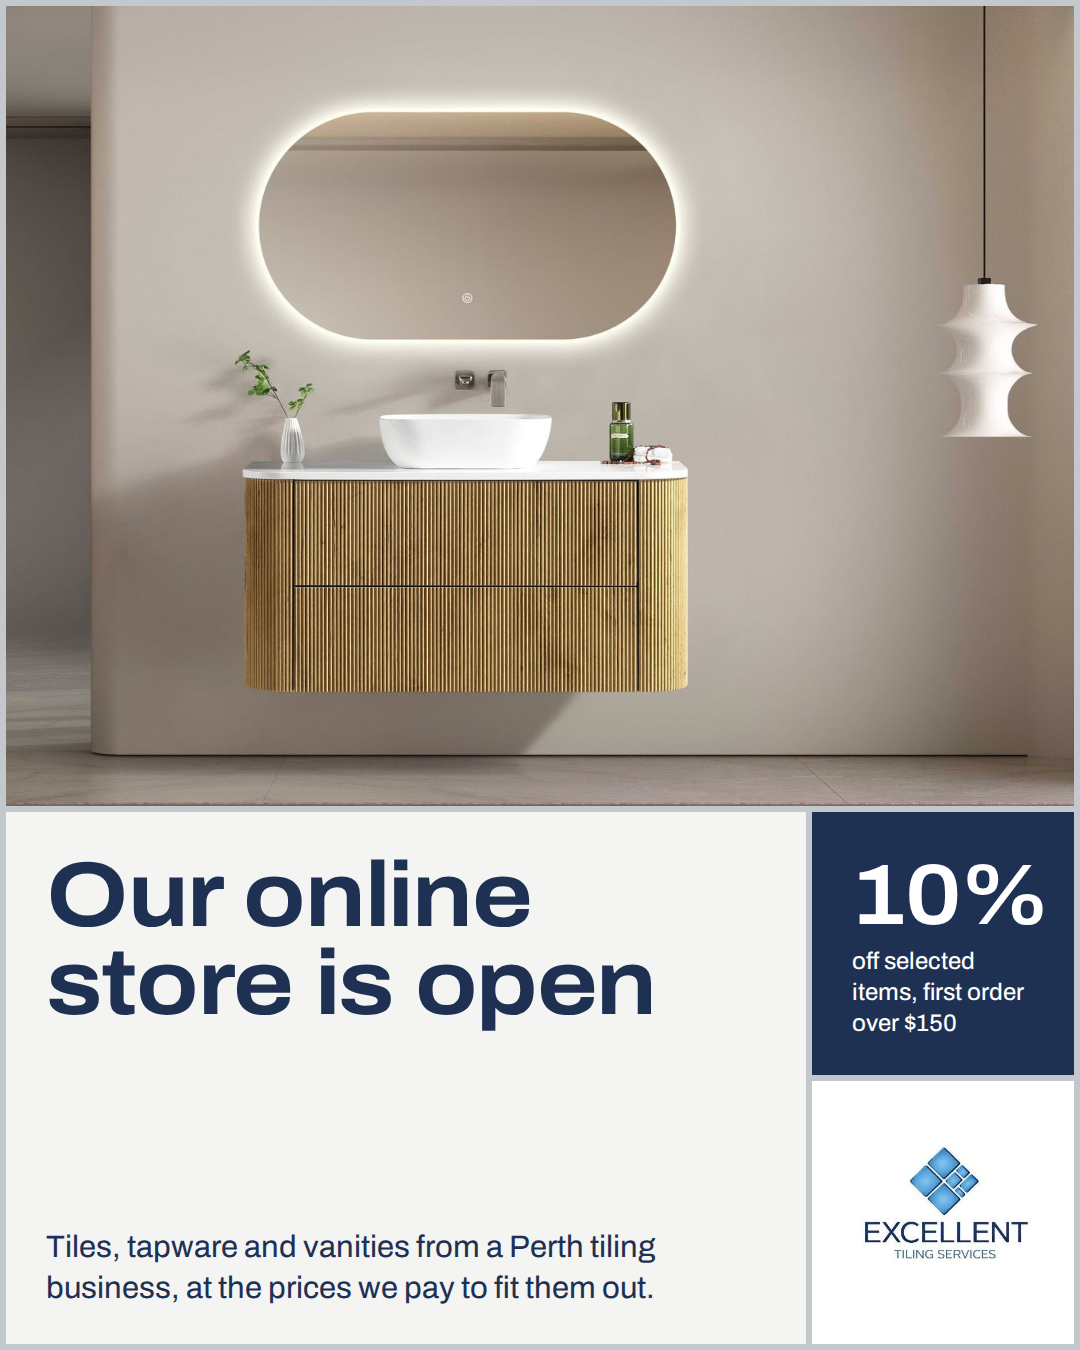
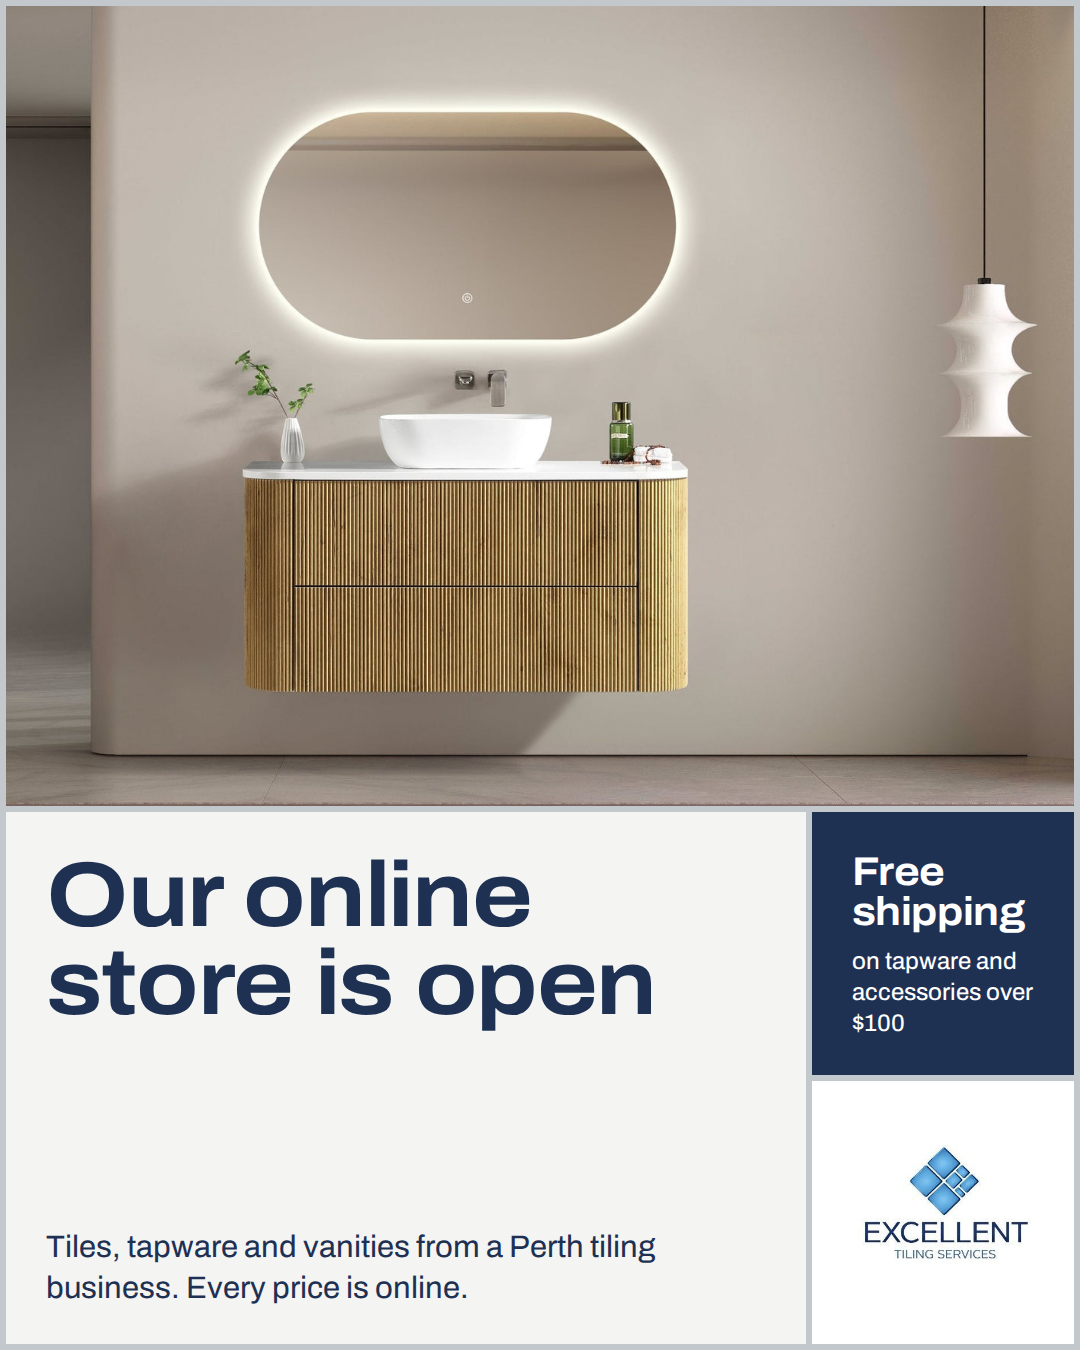
Cancel YAMEN10: replace code graphics with delivery, pickup and free-shipping posts
The discount was deleted from Shopify before launch to protect margins.

Claude-Session: https://claude.ai/code/session_01Y6UKLN7V2VAdSWW4mDpHRp

Changed region(s): [[0.7944, 0.6222, 0.9778, 0.7778], [0.1528, 0.9333, 0.6111, 0.9644]]

diff --git a/marketing/finish-it-right/source/build.py b/marketing/finish-it-right/source/build.py
@@ -33,8 +33,8 @@ URL='excellenttilingservice.com.au'
 posts={
 'A2-1-cover':
  img('brittany2.jpg','1/5','1/4')+
- f'<div class="t" {a("1/4","4/6")}><h1>Our online store is open</h1><p class="bot">Tiles, tapware and vanities from a Perth tiling business, at the prices we pay to fit them out.</p></div>'+
- f'<div class="t navy" {a("4/5","4/5")}><h2 style="font-size:86px">10%</h2><p class="small bot">off selected items, first order over $150</p></div>'+
+ f'<div class="t" {a("1/4","4/6")}><h1>Our online store is open</h1><p class="bot">Tiles, tapware and vanities from a Perth tiling business. Every price is online.</p></div>'+
+ f'<div class="t navy" {a("4/5","4/5")}><h2 style="font-size:40px">Free<br>shipping</h2><p class="small bot">on tapware and accessories over $100</p></div>'+
  LOGO('4/5','5/6'),
 'A2-2-flova':
  img('flova.png','1/5','1/4','fit')+
@@ -52,21 +52,12 @@ posts={
  img('moon-room2.jpg','3/5','3/5','','Time Stone Moon, laid','dark')+
  f'<div class="t" {a("1/4","5/6")}><h2 style="font-size:52px">Porcelain tiles from $37.40/m²</h2><p class="small" style="margin-top:14px">Perth delivery or free pickup. Sold by the full box.</p></div>'+
  f'<div class="t blue" {a("4/5","5/6")}></div>',
-'A2-5-code':
- f'<div class="t deep" {a("1/5","1/4")}><p>Use code</p><div class="code" style="margin-top:30px">YAMEN10</div><p class="bot" style="font-size:40px">10% off selected items, first order over $150</p></div>'+
- f'<div class="t" {a("1/4","4/6")}><h2>Ends Sunday 8&nbsp;November</h2><p class="small" style="margin-top:18px">Excludes vanities, basins, mirrors and baths.</p><p class="bot">{URL}</p></div>'+
- f'<div class="t blue" {a("4/5","4/5")}></div>'+LOGO('4/5','5/6'),
 'C3-showroom':
  f'<div class="t navy" {a("1/5","1/4")}><h1 style="font-size:132px">Work all day?<br>So do we.</h1><p class="bot" style="font-size:38px">Our Maddington showroom opens in the evening, by appointment.</p></div>'+
  f'<div class="t" {a("1/3","4/6")}><table><tr><td>Mon to Sat</td><td>4:30–9 pm</td></tr><tr><td>Sunday</td><td>Closed</td></tr></table><p class="small bot">Bring your plans and measurements. We\'ll help you work out quantities.</p></div>'+
  f'<div class="t blue" {a("3/5","4/5")}><h2 style="font-size:52px">Book a time online</h2></div>'+
  f'<div class="t" {a("3/4","5/6")}><p class="small">17A Olga Road, Maddington<br><br>0450 960 543</p></div>'+LOGO('4/5','5/6'),
-'D3-last-call':
- img('hail-room.jpg','1/5','1/3')+
- f'<div class="t deep" {a("1/5","3/5")}><p>Last call</p><div class="code" style="margin-top:24px">YAMEN10</div><h2 class="bot" style="font-size:58px">Ends Sunday 8 November</h2></div>'+
- f'<div class="t" {a("1/4","5/6")}><p>10% off selected items on your first order over $150.</p><p class="small" style="margin-top:12px">Excludes vanities, basins, mirrors and baths. {URL}</p></div>'+LOGO('4/5','5/6'),
 }
-
 posts.update({
 'B2-refresh':
  f'<div class="t navy" {a("1/5","1/3")}><h1 style="font-size:104px">Bathroom refresh for $480</h1><p class="bot">Four swaps, one matching chrome finish, delivered free anywhere in Australia.</p></div>'+
@@ -74,7 +65,7 @@ posts.update({
  img('handshower.jpg','3/4','3/5','fit','Hand shower $151','dark')+
  img('towelrail.png','4/5','3/4','fit','Towel rail $94','dark')+
  img('paper.png','4/5','4/5','fit','Roll holder $46','dark')+
- f'<div class="t" {a("1/4","5/6")}><p>All MELA FLOVA. Add code YAMEN10 for another 10% off orders over $150.</p></div>'+LOGO('4/5','5/6'),
+ f'<div class="t" {a("1/4","5/6")}><p>All MELA FLOVA. Also available in matt black and brushed nickel.</p></div>'+LOGO('4/5','5/6'),
 'B3-prices':
  f'<div class="t" {a("1/5","1/3")}><h1 style="font-size:112px">Every price is on the website</h1></div>'+
  f'<div class="t navy" {a("1/3","3/5")}><h2>No “call for price”</h2><p class="bot">Tiles, tapware, vanities and tools, all priced online, all buyable tonight.</p></div>'+
@@ -109,10 +100,6 @@ posts.update({
  img('flova.png','1/3','1/4','fit')+img('flova-black.png','3/5','1/4','fit')+
  f'<div class="t navy" {a("1/5","4/6")}><h1 style="font-size:116px">Chrome or matt black?</h1><p class="bot" style="font-size:38px">Same mixer, $189 or $217. Vote below.</p></div>'+
  f'<div class="t" {a("1/5","6/8")}><p style="font-size:34px;color:#8a919a">Poll sticker goes here</p></div>',
-'S-countdown':
- f'<div class="t deep" {a("1/5","1/5")}><p style="font-size:40px">Last day tomorrow</p><div class="code" style="margin-top:40px">YAMEN10</div><p class="bot" style="font-size:44px">10% off selected items, first order over $150</p></div>'+
- f'<div class="t" {a("1/5","5/7")}><p style="font-size:34px;color:#8a919a">Countdown sticker goes here</p><p class="small bot">Excludes vanities, basins, mirrors and baths.</p></div>'+
- f'<div class="t blue" {a("1/4","7/8")}><h2 style="font-size:52px">Tap the link to shop</h2></div>'+LOGO('4/5','7/8'),
 'S-showroom':
  f'<div class="t navy" {a("1/5","1/4")}><h1 style="font-size:132px">Open tonight, 4:30 to 9</h1></div>'+
  img('brittany2.jpg','1/5','4/6')+
@@ -123,6 +110,22 @@ posts.update({
  f'<div class="t" {a("1/3","4/6")}><div class="big" style="color:var(--blue)">15%</div><p class="bot">off tiles</p></div>'+
  f'<div class="t" {a("3/5","4/6")}><div class="big" style="font-size:120px;color:var(--blue)">5–25%</div><p class="bot">off everything else</p></div>'+
  f'<div class="t blue" {a("1/4","6/8")}><h2 style="font-size:60px">Free account. Apply on the website.</h2></div>'+LOGO('4/5','6/8'),
+})
+
+posts.update({
+'A2-5-delivery':
+ f'<div class="t deep" {a("1/5","1/3")}><h1 style="font-size:112px">Three ways to get it home</h1></div>'+
+ f'<div class="t" {a("1/3","3/5")}><h2 style="font-size:58px">Free shipping</h2><p class="bot">Tapware and accessories over $100, anywhere in Australia.</p></div>'+
+ f'<div class="t" {a("3/5","3/5")}><h2 style="font-size:58px">Perth delivery</h2><p class="bot">Tiles, vanities and baths, priced at checkout.</p></div>'+
+ f'<div class="t blue" {a("1/4","5/6")}><h2 style="font-size:54px">Free pickup in Maddington</h2></div>'+LOGO('4/5','5/6'),
+'D3-pickup':
+ img('hail-room.jpg','1/5','1/3')+
+ f'<div class="t deep" {a("1/5","3/5")}><p>Order online</p><h1 style="font-size:150px;margin-top:24px">Pick up free</h1><h2 class="bot" style="font-size:58px">17A Olga Road, Maddington</h2></div>'+
+ f'<div class="t" {a("1/4","5/6")}><p>We message you when it\'s ready. Book a pickup time, Monday to Saturday, 4:30 to 9 pm.</p></div>'+LOGO('4/5','5/6'),
+'S-shipping':
+ f'<div class="t deep" {a("1/5","1/5")}><p style="font-size:40px">Tapware and accessories</p><h1 style="font-size:150px;margin-top:40px">Free shipping over $100</h1><p class="bot" style="font-size:44px">Anywhere in Australia</p></div>'+
+ img('flova.png','1/5','5/7','fit')+
+ f'<div class="t blue" {a("1/4","7/8")}><h2 style="font-size:52px">Tap the link to shop</h2></div>'+LOGO('4/5','7/8'),
 })
 
 os.makedirs(f'{S}/out',exist_ok=True)

diff --git a/marketing/finish-it-right/README.md b/marketing/finish-it-right/README.md
@@ -5,25 +5,24 @@ Ready-to-post graphics. Feed posts are 1080×1350 (Instagram/Facebook portrait);
 
 | File | Use |
 | --- | --- |
-| A2-1 … A2-5 | YAMEN10 launch carousel (post in order) |
+| A2-1 … A2-5 | Store launch carousel (post in order; A2-5 is "three ways to get it home") |
 | A3-idea | Bathroom idea: BRITTANY oak vanity |
 | B2-refresh | $480 FLOVA bathroom refresh |
 | B3-prices | Every price is online |
 | C2-tile-looks | Four porcelain floors |
 | C3-showroom | Evening showroom hours |
 | D2-trade | Trade accounts |
-| D3-last-call | YAMEN10 last call |
+| D3-pickup | Order online, pick up free in Maddington |
 | R-B1 / R-C1 / R-D1 | Reel covers: unboxing, vanity install, tiling mistakes |
-| S-poll / S-countdown / S-showroom / S-trade | Story frames (add the poll/countdown sticker in Instagram) |
+| S-poll / S-shipping / S-showroom / S-trade | Story frames (add the poll sticker in Instagram) |
 
-## Discount code YAMEN10
+## No discount code (decided 5 Oct 2026)
 
-Shopify code (scheduled): 10% off, $150 minimum, one use per customer, 12 Oct 00:00 to 8 Nov 23:59 Perth.
-It only applies to the hidden, unpublished collection `yamen10-eligible`: the 292 products whose every
-variant stays at or above the 20% profit floor after 10% off (from `store-pricing-2026-10-03.csv`). That
-is all tiles and most tools/tapware; no vanities, basins, mirrors or baths. Products added later are
-not in it, so add them by hand if they qualify. Every post that mentions the code carries
-"Excludes vanities, basins, mirrors and baths."
+A YAMEN10 code (10% off, $150 minimum) was set up and then cancelled before launch: at 10% off, 349 of
+1,572 product options would have dropped below the 20% profit floor and 9 would have sold below cost.
+The campaign leads with free shipping on tapware over $100, every price online, Perth delivery, free
+pickup in Maddington and the evening showroom instead. Don't claim "cheaper than" competitors: 62 of 574
+MELA prices are above Bathroom City's.
 
 The posting schedule and captions are in the owner's Google Calendar. Prices are as of 4 Oct 2026;
 re-check before reposting after a price change. Never name the tile supplier.

diff --git a/.claude/agents/ets-marketing.md b/.claude/agents/ets-marketing.md
@@ -10,7 +10,7 @@ sentences, numbers over adjectives, no jargon.
 
 ## Start every task by reading
 
-1. `marketing/finish-it-right/README.md`: the current campaign, its graphics, and the YAMEN10 rules.
+1. `marketing/finish-it-right/README.md`: the current campaign, its graphics, and why there is no discount.
 2. The campaign doc (Claude Docs): https://claude.ai/code/artifact/bdcc291b-4b07-4d2a-90d6-612febb53f94
    (goal, messages, captions, free-traffic plan, targets). Read it with the docs tools, never web-fetch it.
 3. For prices or offers: the live store (Shopify tools) or `store-content/pricing/store-pricing-2026-10-03.csv`.
@@ -72,9 +72,8 @@ sentences, numbers over adjectives, no jargon.
   claim is checked: 62 of 574 MELA prices are above Bathroom City's. "Every price is on the website" is fine.
 - Discounts: before proposing one, check how many products would drop below the 20% profit floor
   (cost × 1.1 × 1.25) and whether any would sell below cost; scope the code to products that stay above it.
-  YAMEN10 (12 Oct to 8 Nov 2026) is 10% off eligible items, $150 minimum, one use per customer, and
-  excludes vanities, basins, mirrors and baths. Every mention says "selected items" and carries that
-  exclusion, and it is never paired with a vanity, basin, mirror or bath.
+  The owner decided on 5 Oct 2026 not to run a discount for the Finish It Right campaign (YAMEN10 was
+  cancelled). Don't propose one again unless he asks.
 - Prices in posts must match the live store on the day the post goes out; re-check before reposting.
 - Tiles ship only within Perth metro; tapware and small items ship Australia-wide (free over $100);
   basins and mirrors go by Australia Post; vanities, baths and tiles are Perth delivery or free pickup.

diff --git a/.claude/agents/ets-calendar.md b/.claude/agents/ets-calendar.md
@@ -79,7 +79,6 @@ morning Story `f6qv9tq9br0b9efdiqc24q6f00`, Marketplace `avm03n0evgrdiijngds0ha6
 - Captions: prices and offers must match the live store (check with the Shopify tools or the master
   price list `store-content/pricing/store-pricing-2026-10-03.csv`), never claim "cheaper than" anyone,
   and never name the tile supplier (Eternity).
-- Discount YAMEN10 runs 12 Oct to 8 Nov 2026, 10% off eligible items with a $150 minimum, and excludes
-  vanities, basins, mirrors and baths. Any caption that mentions it must say "selected items" and carry
-  that exclusion, and never pair it with a vanity, basin, mirror or bath.
+- No discount code is running (YAMEN10 was cancelled on 5 Oct 2026). Don't put a code in any caption
+  unless the owner sets one up.
 - After changes, report what changed in a few plain lines (what, when). Don't paste raw event data.
